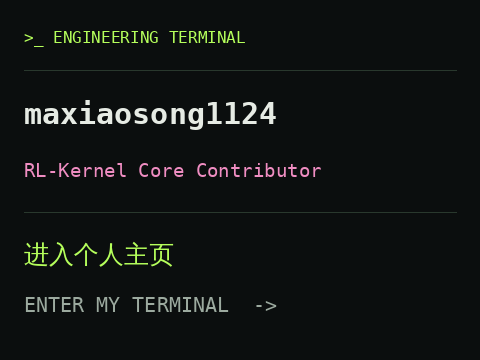
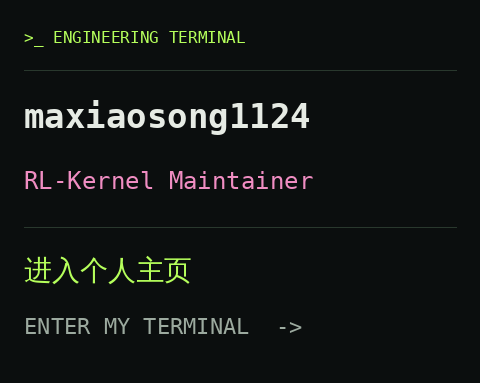
fix: update Maintainer identity and improve profile readability

diff --git a/web/readability.css b/web/readability.css
@@ -1,0 +1,83 @@
+/* Readable type sizes for the full terminal, including compact data surfaces. */
+body { font-size: 16px; }
+.personal-copy, .profile-intro .personal-copy { font-size: 18px; line-height: 1.85; }
+.profile-intro .personal-copy { max-width: 1020px; }
+.personal-copy p { margin-bottom: 22px; }
+.english-copy { line-height: 1.8; }
+h2, .bottom-grid h2 { font-size: 24px; }
+h2 > span, .section-meta { font-size: 13px; }
+.contributor-role { font-size: 18px; }
+.role { font-size: 16px; }
+.brand { font-size: 15px; }
+.mode, .local, .eyebrow, .kicker, .location, .avatar-wrap > span { font-size: 12px; }
+.stack > span, .text-link { font-size: 14px; }
+.stack > span { padding: 7px 11px; }
+.identity-bottom, .section-heading, .chart-heading { flex-wrap: wrap; }
+.subnav nav, .subnav > span { font-size: 12px; }
+.subnav { padding: 12px 0; }
+.metric-value { font-size: 42px; }
+.metric-value small, .metric-label { font-size: 12px; }
+.chart-heading, .chart-footer, .signal-bottom { font-size: 12px; }
+.project-name, .featured-project .project-name { font-size: 20px; }
+.project-sub, .repo-row, .repo-row > span { font-size: 15px; line-height: 1.7; }
+.project > span:first-child { min-width: 0; }
+.project-right { font-size: 16px; }
+.project-right small { font-size: 12px; }
+.data-note { font-size: 13px; }
+.signal-section select, .signal-summary > span, .signal-summary > span > span,
+.signal-axis, .signal-readout { font-size: 14px; }
+.signal-readout { height: auto; min-height: 40px; line-height: 1.7; }
+.signal-bottom { flex-wrap: wrap; line-height: 1.6; }
+.terrain-controls, .terrain-controls input { font-size: 13px; }
+.terrain-controls { gap: 16px; }
+.terrain { height: 400px; }
+.filters { flex-wrap: wrap; }
+.filters button { font-size: 14px; padding: 8px 10px; }
+.activity-table-head, .event-row { grid-template-columns: 170px minmax(0,1.25fr) minmax(0,1fr) 20px; }
+.activity-table-head, .event-date, .activity-footer { font-size: 13px; }
+.event-row { font-size: 16px; line-height: 1.6; padding: 20px 0; }
+.event-title { font-size: 14px; white-space: normal; overflow-wrap: anywhere; max-width: none; }
+.contact > a { font-size: 16px; line-height: 1.7; }
+footer { font-size: 12px; flex-wrap: wrap; line-height: 1.7; }
+.readme-body p, .readme-body .personal-copy { font-size: 17px; }
+.readme-body table { font-size: 15px; }
+.readme-body h3 { font-size: 24px; }
+.readme-file { font-size: 14px; }
+@media (max-width: 900px) {
+  .workspace-grid { grid-template-columns: 1fr; gap: 0; }
+  .subnav > span { display: none; }
+  .signal-bars { height: 180px; }
+  .activity-table-head, .event-row { grid-template-columns: 155px minmax(0,1.2fr) minmax(0,1fr) 18px; }
+}
+@media (max-width: 620px) {
+  .personal-copy, .profile-intro .personal-copy { font-size: 17px; }
+  h2, .bottom-grid h2 { font-size: 22px; }
+  .contributor-role { font-size: 17px; }
+  .role { font-size: 14px; max-width: none; }
+  .location, .eyebrow, .kicker, .mode { font-size: 12px; }
+  .eyebrow { flex-wrap: wrap; gap: 10px; }
+  .stack > span { font-size: 13px; padding: 6px 8px; }
+  .subnav nav { display: grid; grid-template-columns: 1fr 1fr; font-size: 12px; gap: 14px; }
+  .metric { padding: 0 12px; }
+  .metric-value { font-size: 36px; gap: 8px; }
+  .metric-label, .metric-value small { font-size: 11px; }
+  .chart-heading { font-size: 12px; }
+  #telemetry #heatmap-detail { font-size: 12px; }
+  #date-range { max-width: 150px; font-size: 12px; }
+  .chart-footer { align-items: flex-start; }
+  .chart-footer > .muted { max-width: 150px; }
+  .terrain { height: 300px; }
+  .terrain-controls { max-width: 100%; gap: 10px; font-size: 12px; }
+  .terrain-controls input { font-size: 12px; }
+  .terrain-controls input[type=date] { max-width: 130px; }
+  .filters { gap: 4px; }
+  .filters button { font-size: 13px; padding: 8px 6px; }
+  .event-row { grid-template-columns: minmax(0,1fr) 18px; }
+  .event-date { font-size: 13px; }
+  .event-repo { font-size: 14px; }
+  .event-title { max-width: none; font-size: 14px; }
+  .event-arrow { top: 46px; }
+  .readme-file { flex-wrap: wrap; }
+  .readme-body p, .readme-body .personal-copy { font-size: 16px; }
+  .readme-body table { font-size: 14px; }
+}

diff --git a/web/app.js b/web/app.js
@@ -115,7 +115,7 @@ $('#projects .data-note').hidden = true;
 $('#readme-projects').innerHTML = data.showcase.table_html;
 $('#readme-projects').closest('table').querySelector('thead').innerHTML = '<tr><th>Project</th><th>Contribution</th></tr>';
 if (!$('.contributor-role')) {
-  const badge = '<a class="contributor-role" href="https://github.com/RL-Align/RL-Kernel">RL-Kernel Core Contributor ↗</a>';
+  const badge = '<a class="contributor-role" href="https://github.com/RL-Align/RL-Kernel">RL-Kernel Maintainer ↗</a>';
   $('.role').insertAdjacentHTML('beforeend',badge);
   $('.readme-body').insertAdjacentHTML('afterbegin',badge);
   $('#readme-projects').closest('table').insertAdjacentHTML('afterend','<h4>Featured Repositories</h4>'+data.showcase.featured_html);

diff --git a/web/index.html b/web/index.html
@@ -3,7 +3,7 @@
 <head>
   <meta charset="UTF-8"><meta name="viewport" content="width=device-width, initial-scale=1">
   <meta name="color-scheme" content="dark"><title>maxiaosong1124 / Engineering Terminal</title>
-  <link rel="icon" href="assets/avatar.png"><link rel="stylesheet" href="style.css">
+  <link rel="icon" href="assets/avatar.png"><link rel="stylesheet" href="style.css"><link rel="stylesheet" href="readability.css">
   <script src="data/profile.js" defer></script><script src="app.js" defer></script><script src="assets/vendor/three.min.js" defer></script><script src="terrain.js" defer></script>
 </head>
 <body>

diff --git a/tools/build.py b/tools/build.py
@@ -88,7 +88,7 @@ def build(profile_only=False):
     banner += text(32, 104, "maxiaosong1124", 48, extra='font-weight="bold"')
     banner += text(34, 141, " / ".join(personal["languages"]), 15, "green")
     banner += text(34, 171, "SYSTEMS / HPC / ML INFERENCE  ·  vLLM / PyTorch", 13, "muted")
-    banner += text(34, 204, "RL-KERNEL CORE CONTRIBUTOR", 12, "pink")
+    banner += text(34, 204, "RL-KERNEL MAINTAINER", 16, "pink")
     banner += '<rect x="485" y="112" width="24" height="3" fill="#b5ff5b"><animate attributeName="opacity" values="1;1;0;0;1" dur="1.6s" repeatCount="indefinite"/></rect>'
     banner += '<path d="M0 278H120" stroke="#b5ff5b" stroke-width="2"><animateTransform attributeName="transform" type="translate" values="-120 0;960 0" dur="6s" repeatCount="indefinite"/></path>'
     banner += text(34, 242, "HANGZHOU, CN", 11, "muted") + text(650, 242, "[ BUILD. PROFILE. OPTIMIZE. ]", 11, "pink")
@@ -134,7 +134,7 @@ def build(profile_only=False):
     lines += [f'| {e["date"][:10]} | [{e["label"]}{" #"+str(e["number"]) if e["number"] else ""}]({e["url"]}) | {e["repo"]} |' for e in events[:8]]
     lines[4:4] = ['### 00 / 个人介绍 · About Me', '', personal['intro'], '', personal['exploration'], '', personal['en']['intro'], '', personal['en']['exploration'], '', '**技术栈 / Tech stack**：' + ' · '.join(personal['languages']), '', '**熟悉的框架 / Familiar frameworks**：' + ' · '.join(personal['frameworks']), '', '**当前学习方向 / Currently learning**', '', personal['learning'], '', personal['en']['learning'], '', '**未来愿景 / Future vision**', '', personal['vision'], '', personal['en']['vision'], '']
     lines += ['', '---', '', f'Public data snapshot: {stamp}. Activity is limited to the latest 100 public events; it is not a complete contribution history.', '']
-    lines[4:4] = ['**[RL-Kernel Core Contributor](https://github.com/RL-Align/RL-Kernel)**', '']
+    lines[4:4] = ['**[RL-Kernel Maintainer](https://github.com/RL-Align/RL-Kernel)**', '']
     lines[0] = '[![maxiaosong1124 - Engineering Terminal](assets/header.svg)](https://maxiaosong1124.github.io/maxiaosong1124/)'
     lines[2:2] = ['### [进入交互主页 / Open Interactive Terminal ↗](https://maxiaosong1124.github.io/maxiaosong1124/)', '']
     (ROOT / "profile/README.md").write_text('\n'.join(lines))

diff --git a/tools/entry_profile.py b/tools/entry_profile.py
@@ -11,17 +11,17 @@ def build_entry(data, output, avatar_path):
         p = Panel(width)
         p.label('>_ ENGINEERING TERMINAL', GREEN)
         p.rule()
-        p.paragraph(data['user']['login'], size=48 if width>600 else 30, bold=True)
-        p.paragraph('RL-Kernel Core Contributor', size=22 if width>600 else 19, color=PINK)
+        p.paragraph(data['user']['login'], size=52 if width>600 else 34, bold=True)
+        p.paragraph('RL-Kernel Maintainer', size=28 if width>600 else 24, color=PINK)
         if width>600:
             avatar=Image.open(avatar_path).convert('RGB').resize((96,96),Image.Resampling.LANCZOS)
             p.image.paste(avatar,(width-152,84))
             p.draw.rectangle((width-157,79,width-51,185),outline=LINE,width=2)
         p.rule()
-        p.paragraph('进入个人主页',size=25,cjk=True,color=GREEN)
-        p.paragraph('ENTER MY TERMINAL  ->',size=22 if width>600 else 20,color=MUTED)
+        p.paragraph('进入个人主页',size=28,cjk=True,color=GREEN)
+        p.paragraph('ENTER MY TERMINAL  ->',size=24 if width>600 else 22,color=MUTED)
         p.save(assets/f'terminal{suffix}.png')
-    alt=escape(data['user']['login']+' | RL-Kernel Core Contributor | 进入个人主页 / Enter My Terminal',quote=True)
+    alt=escape(data['user']['login']+' | RL-Kernel Maintainer | 进入个人主页 / Enter My Terminal',quote=True)
     readme=f'''<p align="center">
   <a href="{SITE}">
     <picture>

diff --git a/tools/static_preview.py b/tools/static_preview.py
@@ -123,7 +123,7 @@ def render_static(source, root):
     fill('readme-events', ''.join(f'<tr><td>{event["date"][:10]}</td><td><a href="{e(event["url"])}">{e(event["label"])}{(" #"+str(event["number"])) if event["number"] else ""}</a></td><td>{e(event["repo"])}</td></tr>' for event in data['events'][:8]))
     fill('readme-stamp', 'Public data snapshot: ' + e(data['updated']) + '. Activity is limited to the latest 100 public events; it is not a complete contribution history.')
     showcase = data['showcase']
-    badge = '<a class="contributor-role" href="https://github.com/RL-Align/RL-Kernel">RL-Kernel Core Contributor ↗</a>'
+    badge = '<a class="contributor-role" href="https://github.com/RL-Align/RL-Kernel">RL-Kernel Maintainer ↗</a>'
     doc.find(**{'class': 'role'}).children.append(badge)
     fill('contributed-projects', showcase['projects_html'])
     fill('personal-repos', showcase['featured_html'])

diff --git a/tools/showcase.py b/tools/showcase.py
@@ -24,7 +24,7 @@ def build_showcase(root, user, repos):
     for p in projects:
         repo = p['repo']
         p['url'] = f'https://github.com/{repo}/issues?q=' + quote(f'author:{user["login"]}', safe='')
-        role = 'CORE CONTRIBUTOR' if repo == 'RL-Align/RL-Kernel' else 'PUBLIC CONTRIBUTIONS'
+        role = 'MAINTAINER' if repo == 'RL-Align/RL-Kernel' else 'PUBLIC CONTRIBUTIONS'
         rows.append(f'<a class="project" href="{escape(p["url"], quote=True)}" target="_blank" rel="noreferrer"><span><span class="project-name">{escape(repo)}</span><span class="project-sub">{role}</span></span><span class="project-arrow">↗</span></a>')
         markdown.append(f'| [{repo}]({p["url"]}) | {role} |')
         table.append(f'<tr><td><a href="{escape(p["url"], quote=True)}">{escape(repo)}</a></td><td>{role}</td></tr>')

diff --git a/scripts/refresh.py b/scripts/refresh.py
@@ -87,7 +87,7 @@ def refresh():
         import entry_profile
         snapshot=json.loads((data/'profile.js').read_text().removeprefix('window.PROFILE = ').strip().removesuffix(';'))
         entry_profile.build_entry(snapshot,work/'profile',ROOT/'web/assets/avatar.png')
-        for name in ['index.html', 'style.css', 'app.js', 'terrain.js']:
+        for name in ['index.html', 'style.css', 'readability.css', 'app.js', 'terrain.js']:
             shutil.copyfile(ROOT / 'web' / name, work / name)
         shutil.copytree(ROOT / 'web/assets', work / 'assets')
         import build_preview

diff --git a/MAINTENANCE.md b/MAINTENANCE.md
@@ -2,7 +2,7 @@
 
 The README is generated automatically. Edit `data/personal.json` for the bilingual biography, learning directions and vision; use the Actions tab to run **Update profile** afterward.
 
-The GitHub profile README contains only a clickable terminal banner with the username, Core Contributor role and bilingual entry label. `tools/entry_profile.py` generates desktop and 480px mobile images. The full biography, learning directions, vision, projects, activity and 3D scene live on the interactive website.
+The GitHub profile README contains only a clickable terminal banner with the username, RL-Kernel Maintainer role and bilingual entry label. `tools/entry_profile.py` generates desktop and 480px mobile images. The full biography, learning directions, vision, projects, activity and 3D scene live on the interactive website. `web/readability.css` sets the larger body, project and activity type sizes for desktop and mobile.
 
 The daily task continues to refresh the interactive website and its contribution data. It no longer installs a browser or regenerates README GIFs. Earlier native image modules and rendering tools remain in repository history/files for reference, but are not displayed or run by the active workflow. Pillow and system font packages generate the entry banner.
 

diff --git a/README.md b/README.md
@@ -2,7 +2,7 @@
   <a href="https://maxiaosong1124.github.io/maxiaosong1124/">
     <picture>
       <source media="(max-width: 600px)" srcset="assets/entry/terminal-mobile.png">
-      <img src="assets/entry/terminal.png" width="960" align="top" alt="maxiaosong1124 | RL-Kernel Core Contributor | 进入个人主页 / Enter My Terminal">
+      <img src="assets/entry/terminal.png" width="960" align="top" alt="maxiaosong1124 | RL-Kernel Maintainer | 进入个人主页 / Enter My Terminal">
     </picture>
   </a>
 </p>
